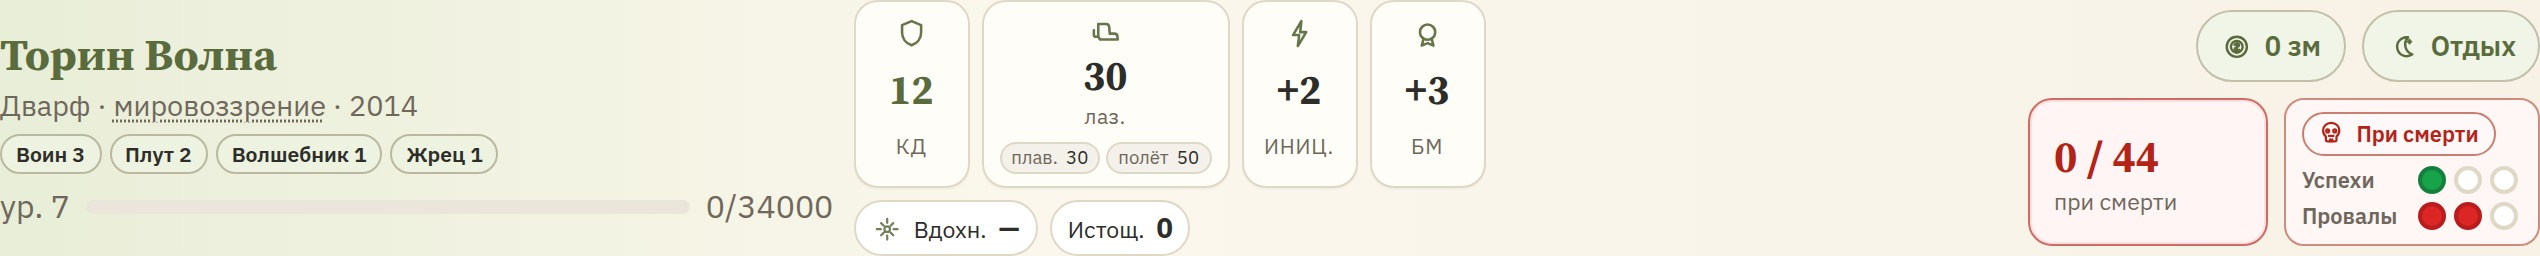
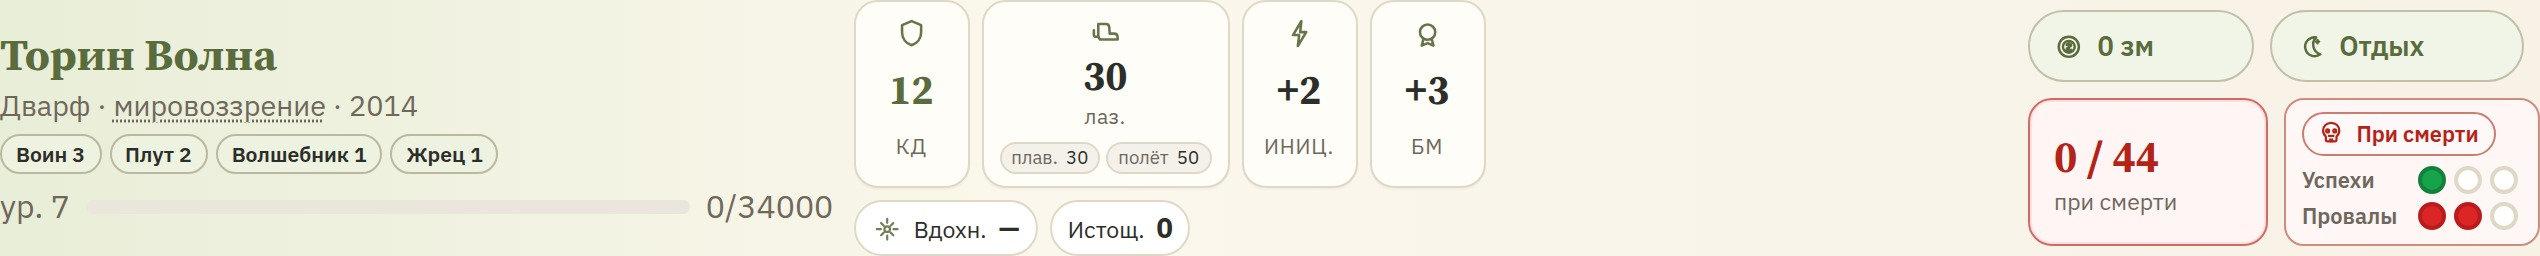
Wave A header: keep coin/rest inline; death row wraps
Right chrome stays one row when healthy; HP+death takes a
full row under tools so the skull block has room.

diff --git a/frontend/src/features/characters/PlayDeskHeader.tsx b/frontend/src/features/characters/PlayDeskHeader.tsx
@@ -376,19 +376,21 @@ export function PlayDeskHeader({
       </div>
 
       <div className="play-desk-header__right">
-        <button
-          type="button"
-          className="play-desk-header__coin"
-          title={`Всего ≈ ${formatGpTotal(coinsToGp(coins))} зм (${formatCoinBreakdown(coins)}). Нажми — взять / отдать`}
-          onClick={() => setCoinPadOpen(true)}
-        >
-          <IconCoin className="play-desk-header__btn-icon" />
-          <span>{formatGpTotal(coinsToGp(coins))} зм</span>
-        </button>
-        <button type="button" className="play-desk-header__rest" onClick={onOpenRest}>
-          <IconRest className="play-desk-header__btn-icon" />
-          <span>Отдых</span>
-        </button>
+        <div className="play-desk-header__right-tools">
+          <button
+            type="button"
+            className="play-desk-header__coin"
+            title={`Всего ≈ ${formatGpTotal(coinsToGp(coins))} зм (${formatCoinBreakdown(coins)}). Нажми — взять / отдать`}
+            onClick={() => setCoinPadOpen(true)}
+          >
+            <IconCoin className="play-desk-header__btn-icon" />
+            <span>{formatGpTotal(coinsToGp(coins))} зм</span>
+          </button>
+          <button type="button" className="play-desk-header__rest" onClick={onOpenRest}>
+            <IconRest className="play-desk-header__btn-icon" />
+            <span>Отдых</span>
+          </button>
+        </div>
         <div className={`play-desk-header__hp-wrap${showDeath ? ' is-dying' : ''}`}>
           <button
             type="button"

diff --git a/frontend/src/index.css b/frontend/src/index.css
@@ -4706,11 +4706,16 @@ button.play-desk-vital:hover {
 }
 
 .play-desk-header__right {
-  display: flex;
+  display: grid;
+  grid-template-columns: auto auto minmax(0, max-content);
   gap: 8px;
-  justify-content: flex-end;
+  justify-content: end;
   align-items: center;
-  flex-wrap: wrap;
+  min-width: 0;
+}
+
+.play-desk-header__right-tools {
+  display: contents;
 }
 
 .play-desk-header__coin,
@@ -4750,6 +4755,11 @@ button.play-desk-vital:hover {
   flex-wrap: nowrap;
   align-items: stretch;
   gap: 8px;
+  justify-self: end;
+}
+
+.play-desk-header__hp-wrap.is-dying {
+  grid-column: 1 / -1;
 }
 
 .play-desk-header__hp {
@@ -4782,10 +4792,6 @@ button.play-desk-vital:hover {
 }
 
 /* Compact death saves: to the RIGHT of HP, two stacked tracks + skull. */
-.play-desk-header__hp-wrap.is-dying {
-  gap: 8px;
-}
-
 .play-desk-header__hp.is-critical {
   border-color: color-mix(in srgb, var(--danger, #9f2d2d) 55%, #efc2c2);
   background: color-mix(in srgb, #fff4f4 88%, white);
@@ -5299,7 +5305,8 @@ button.play-desk-vital:hover {
     grid-template-columns: 1fr;
   }
   .play-desk-header__right {
-    justify-content: flex-start;
+    justify-content: start;
+    grid-template-columns: auto auto minmax(0, 1fr);
   }
   .play-desk-compact__hit,
   .play-desk-compact__row.is-action {
